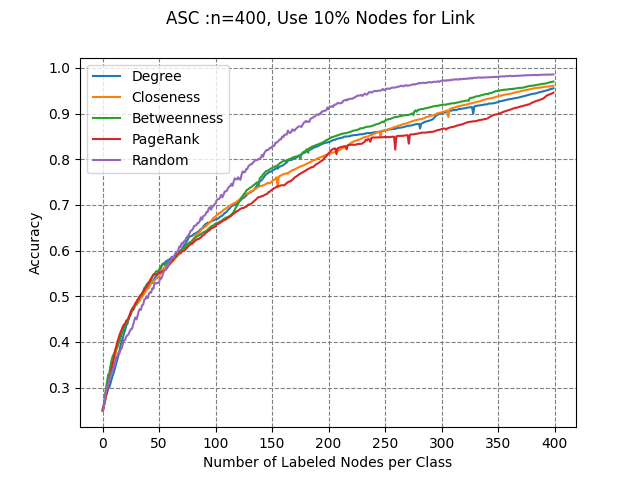
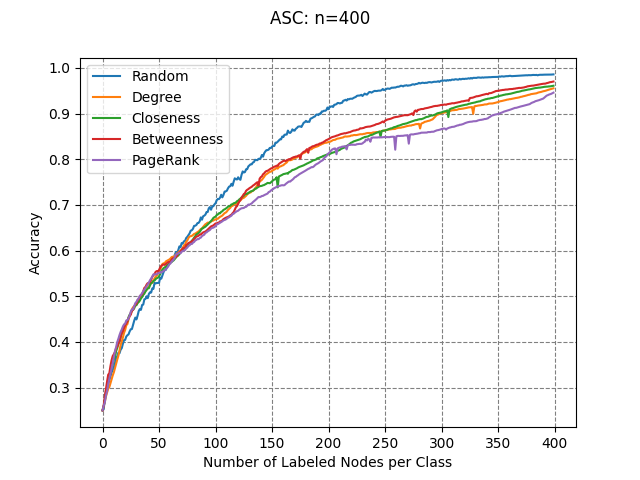
execute task3 dg com

diff --git a/scalefree_graph/integrate_figures.py b/scalefree_graph/integrate_figures.py
@@ -6,34 +6,34 @@ def show_integarte_figures(tk=2, n=400, links=10, samples=20, tp=""):
     tp = f"_{tp}"
 
   fig = plt.figure()
-  fig.suptitle(f"ASC: n={n}, c=4")
+  fig.suptitle(f"DESC with Condition: n={n}")
   ax = fig.add_subplot(111)
 
   with open(f'./scalefree_graph/task{tk}_data/task{tk}_n{n}_{links}perLink_{samples*2}samples_rand.csv', 'r') as f:
     reader = csv.reader(f)
     r = [row for row in reader]
-  ax.plot([float(r[0][i]) for i in range(n)], [float(r[1][i]) for i in range(n)], label="(a)")
+  ax.plot([float(r[0][i]) for i in range(n)], [float(r[1][i]) for i in range(n)], label="Random")
 
   with open(f'./scalefree_graph/task{tk}_data/task{tk}_n{n}_{links}perLink_{samples}samples_dg{tp}.csv', 'r') as f:
     reader = csv.reader(f)
     dg = [row for row in reader]
     # print(dg)
-  ax.plot([float(dg[0][i]) for i in range(n)], [float(dg[1][i]) for i in range(n)], label="(j)")
+  ax.plot([float(dg[0][i]) for i in range(n)], [float(dg[1][i]) for i in range(n)], label="Degree")
 
   with open(f'./scalefree_graph/task{tk}_data/task{tk}_n{n}_{links}perLink_{samples}samples_cc{tp}.csv', 'r') as f:
     reader = csv.reader(f)
     cc = [row for row in reader]
-  ax.plot([float(cc[0][i]) for i in range(n)], [float(cc[1][i]) for i in range(n)], label="(k)")
+  ax.plot([float(cc[0][i]) for i in range(n)], [float(cc[1][i]) for i in range(n)], label="Closeness")
 
   with open(f'./scalefree_graph/task{tk}_data/task{tk}_n{n}_{links}perLink_{samples}samples_bc{tp}.csv', 'r') as f:
     reader = csv.reader(f)
     bc = [row for row in reader]
-  ax.plot([float(bc[0][i]) for i in range(n)], [float(bc[1][i]) for i in range(n)], label="(l)")
+  ax.plot([float(bc[0][i]) for i in range(n)], [float(bc[1][i]) for i in range(n)], label="Betweenness")
 
   with open(f'./scalefree_graph/task{tk}_data/task{tk}_n{n}_{links}perLink_{samples}samples_pr{tp}.csv', 'r') as f:
     reader = csv.reader(f)
     pr = [row for row in reader]
-  ax.plot([float(pr[0][i]) for i in range(n)], [float(pr[1][i]) for i in range(n)], label="(m)")
+  ax.plot([float(pr[0][i]) for i in range(n)], [float(pr[1][i]) for i in range(n)], label="PageRank")
 
   ax.legend()
   ax.set_xlabel('Number of Labeled Nodes per Class')
@@ -50,23 +50,23 @@ def show_integrate_figures_(tk=3, st="mean", links=10, op="a"):
     title = "Number"
 
   fig = plt.figure()
-  fig.suptitle(f"{title}: Labeled Nodes to Reach 80% Accuracy\nUse {links}% Nodes for Link")
+  fig.suptitle(f"{title}: Labeled Nodes to Reach 80% Accuracy")
   ax = fig.add_subplot(111)
-
-  with open(f'./scalefree_graph/task{tk}_data/task{tk}_{st}_{links}perLink_{op}_dg.csv', 'r') as f:
-    reader = csv.reader(f)
-    dg = [row for row in reader]
-  ax.plot([float(dg[0][i]) for i in range(41)], [float(dg[1][i]) for i in range(41)], label="Degree")
-
-  with open(f'./scalefree_graph/task{tk}_data/task{tk}_{st}_{links}perLink_{op}_bc.csv', 'r') as f:
-    reader = csv.reader(f)
-    bc = [row for row in reader]
-  ax.plot([float(bc[0][i]) for i in range(41)], [float(bc[1][i]) for i in range(41)], label="Betweenness")
 
   with open(f'./scalefree_graph/task{tk}_data/task{tk}_{st}_{links}perLink_{op}_rand.csv', 'r') as f:
     reader = csv.reader(f)
     r = [row for row in reader]
-  ax.plot([float(r[0][i]) for i in range(41)], [float(r[1][i]) for i in range(41)], label="Random")
+  ax.plot([float(r[0][i]) for i in range(41)], [float(r[1][i]) for i in range(41)], label="(a)")
+
+  with open(f'./scalefree_graph/task{tk}_data/task{tk}_{st}_{links}perLink_{op}_bc.csv', 'r') as f:
+    reader = csv.reader(f)
+    bc = [row for row in reader]
+  ax.plot([float(bc[0][i]) for i in range(41)], [float(bc[1][i]) for i in range(41)], label="(d)")
+
+  with open(f'./scalefree_graph/task{tk}_data/task{tk}_{st}_{links}perLink_{op}_dg.csv', 'r') as f:
+    reader = csv.reader(f)
+    dg = [row for row in reader]
+  ax.plot([float(dg[0][i]) for i in range(41)], [float(dg[1][i]) for i in range(41)], label="(j)")
 
   ax.legend()
   ax.set_xlabel('Number of Nodes per Class')
@@ -75,5 +75,5 @@ def show_integrate_figures_(tk=3, st="mean", links=10, op="a"):
   ax.grid(axis='y', color='gray', linestyle='--')
   fig.savefig(f'./scalefree_graph/task{tk}_data/task{tk}_{st}_{links}perLink_{op}.png')
 
-show_integarte_figures(2, 400, 10, 20, "asc")
+# show_integarte_figures(2, 400, 10, 20, "com")
 # show_integrate_figures_(3, "mean", 10, "a")

diff --git a/scalefree_graph/show.py b/scalefree_graph/show.py
@@ -18,22 +18,14 @@ def check_graph(data):
 
 def show_graph():
 
-  n = 100
-  a,b = sample.generate_sample(n)
+  n = 50
+  a,b,_ = sample.generate_sample(n)
 
-  '''
-  pos = nx.circular_layout(y)
-  pattern = [ 'gray' if y.nodes[node]['label'] == -1 else 'blue' if node < n else 'green' if node < 2*n else 'orange' if node < 3*n else 'red' for node in y.nodes() ]
-  nx.draw(y, pos, node_size=20, alpha=0.5, node_color=pattern, edge_color='gray', with_labels=False)
-  plt.show()
-  '''
-
-  '''
   pos = nx.circular_layout(a)
   pattern = [ 'blue' if node < n else 'green' if node < 2*n else 'orange' if node < 3*n else 'red' for node in a.nodes() ]
   nx.draw(a, pos, node_size=20, alpha=0.5, node_color=pattern, edge_color='gray', with_labels=False)
   plt.show()
-  '''
+
 
   a_data = from_networkx(a)
   b_data = from_networkx(b)

diff --git a/scalefree_graph/sample.py b/scalefree_graph/sample.py
@@ -4,7 +4,6 @@ import matplotlib.pyplot as plt
 import numpy as np
 import torch
 
-
 def generate_sample(n=100, m=2, graph_num=4, link_level=10):
   G = []
   for i in range(graph_num):
